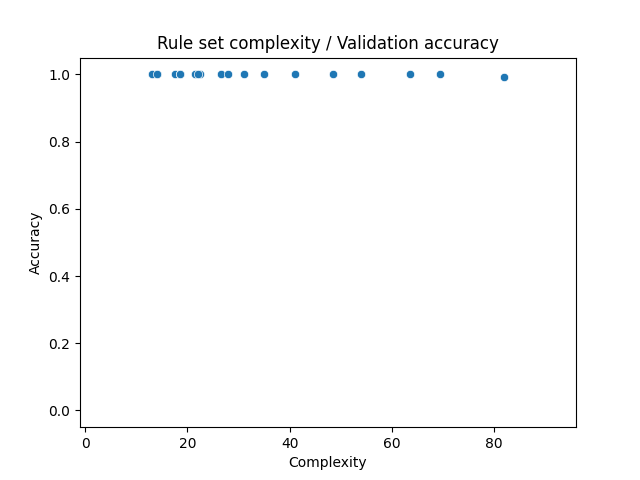
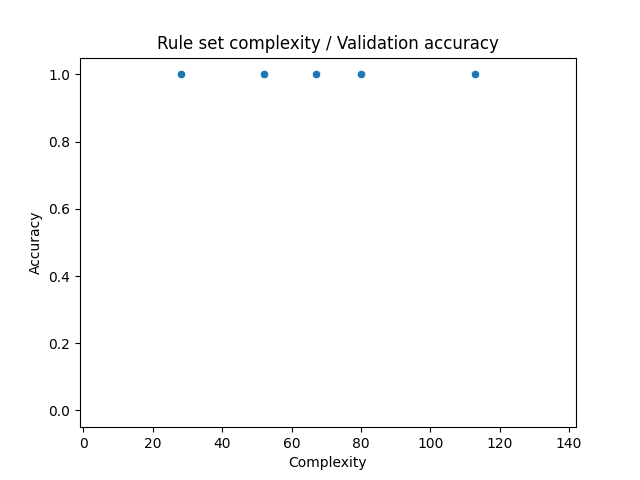
improve early stopping criterium

diff --git a/rule_extraction_classifier.py b/rule_extraction_classifier.py
@@ -1,4 +1,5 @@
 import copy
+import math
 import os
 import timeit
 from timeit import default_timer as timer
@@ -55,9 +56,6 @@ class RuleExtractionClassifier(BaseEstimator):
     def df_to_tensor(self, df) -> Tensor:
         return torch.from_numpy(df.values.astype(np.float32)).to(self.device)
 
-    def convert_to_rule_set(self, model: Sequential, dl: DataLoader):
-        pass
-
     def train_qnn(self, X: Tensor, y: Tensor) -> tuple[Sequential, Sequential]:
         _, n_features = X.shape
         spec: NNSpec = [
@@ -69,14 +67,11 @@ class RuleExtractionClassifier(BaseEstimator):
         spec.insert(0, (n_features, self.layer_width - 1, Activation.TANH))
 
         model = ModelFactory.get_model_by_spec(spec, steepness=self.steepness)
-        if torch.any(model[0].weight.isnan()):
-            print(spec)
         assert not torch.any(model[0].weight.isnan())
 
         dataset = TensorDataset(X, y)
         # model_path = f"temp/testing_model.pth"
         dl = DataLoader(dataset, batch_size=self.batch_size, shuffle=True)
-        assert not torch.any(model[0].weight.isnan())
         metrics = self.train_mlp(
             dl, model, 1, self.lr, self.epochs, self.l1, self.wd, self.delay
         )
@@ -91,14 +86,6 @@ class RuleExtractionClassifier(BaseEstimator):
         while any(isinstance(l, nn.Linear) for l in q_model):
             assert torch.all(torch.isclose(model(X), nn_out))
             q_model = quantize_first_lin_layer(q_model, X)
-            # qnn_out = q_model(X)
-            # nn_pred = np.array(np.round(nn_out.detach().numpy()), dtype=bool)
-            # qnn_pred = np.array(np.round(qnn_out.detach().numpy()), dtype=bool)
-            # y_arr = np.array(y.detach().numpy(), dtype=bool)
-            # nn_acc = np.mean(nn_pred == y_arr)
-            # qnn_acc = np.mean(qnn_pred == y_arr)
-            # fidelity = np.mean(nn_pred == qnn_pred)
-            # print(f"{nn_acc = } | {qnn_acc = } | {fidelity = }")
         return q_model, model
 
     def fit(self, X: DataFrame, y: Series):
@@ -161,7 +148,7 @@ class RuleExtractionClassifier(BaseEstimator):
             weight_decay=wd,
         )
         assert not torch.any(model[0].weight.isnan())
-        tracker = Tracker(epochs=epochs, delay=delay)
+        tracker = Tracker(epochs=epochs, epoch_delay=math.ceil(delay / len(dl)))
         assert not torch.any(model[0].weight.isnan())
         if self.verbose:
             assert not torch.any(model[0].weight.isnan())

diff --git a/my_logging/loggers.py b/my_logging/loggers.py
@@ -71,7 +71,9 @@ class LogMetrics(Logger):
             "valid_acc": f"Valid: {(self.t.valid_acc[-1] * 100):.2f}%",
         }
 
-        bar = "\r" + utilities.progress_bar(self.t.epoch, self.t.epochs, width=30) + " |"
+        bar = (
+            "\r" + utilities.progress_bar(self.t.epoch, self.t.epochs, width=30) + " |"
+        )
         for metric in self.metrics:
             bar += f"{m_format[metric]}\t"
         end = "\n" if self.t.stop_condition() else "\r"
@@ -137,7 +139,7 @@ class LogModel(Logger):
 class Tracker:
     """Tracks useful information on the current epoch."""
 
-    def __init__(self, epochs: int = 0, delay=100, *loggers: Logger):
+    def __init__(self, epochs: int = 0, epoch_delay=100, *loggers: Logger):
         """
         Parameters
         ----------
@@ -145,7 +147,7 @@ class Tracker:
             List of loggers used for logging training information.
         """
         self.epochs = epochs
-        self.delay = delay
+        self.delay = epoch_delay
         self.loggers = []
         for logger in loggers:
             self.add_logger(logger)
@@ -175,6 +177,7 @@ class Tracker:
             logger.training_start()
 
     def epoch_start(self):
+        self.batches = 0
         for logger in self.loggers:
             logger.epoch_start()
 
@@ -183,6 +186,7 @@ class Tracker:
             logger.batch_start()
 
     def batch_end(self):
+        self.batches += 1
         for logger in self.loggers:
             logger.batch_end()
 
@@ -223,9 +227,9 @@ class Tracker:
         valid_stop_delay = self.delay
         eps = 3e-4
         if (
-            len(self.mean_train_loss) >= valid_stop_delay
-            and self.mean_valid_loss[-valid_stop_delay]
-            <= mean(self.mean_valid_loss[-valid_stop_delay:-1]) + eps
+            len(self.mean_train_loss) > valid_stop_delay
+            and self.mean_valid_loss[-valid_stop_delay - 1]
+            <= mean(self.mean_valid_loss[-valid_stop_delay:]) + eps
         ):
             self.stop_training = True
 

diff --git a/train_model.py b/train_model.py
@@ -37,12 +37,8 @@ def train(
         y_hat = model(X)
         optim.zero_grad()
         assert not torch.any(model[0].weight.isnan())
-        try:
-            assert not torch.any(model[0].weight.isnan())
-            loss = loss_fn(y_hat, y.float())
-            assert not torch.any(model[0].weight.isnan())
-        except:
-            temp = 0
+        loss = loss_fn(y_hat, y.float())
+        assert not torch.any(model[0].weight.isnan())
         if lambda1 != 0:
             assert not torch.any(model[0].weight.isnan())
             # don't regularize bias
@@ -54,13 +50,7 @@ def train(
             assert not torch.any(model[0].weight.isnan())
         losses.append(loss.item())
         assert not torch.any(model[0].weight.isnan())
-        try:
-            assert not torch.any(model[0].weight.isnan())
-            loss.backward()
-            assert not torch.any(model[0].weight.isnan())
-        except:
-            print("hi")
-            temp = 0
+        loss.backward()
         assert not torch.any(model[0].weight.isnan())
         optim.step()
         assert not torch.any(model[0].weight.isnan())

diff --git a/rule_set.py b/rule_set.py
@@ -270,7 +270,7 @@ class RuleSetNeuron(Node):
                 return found
 
             # if already positive, return True
-            if threshold >= 0.0:
+            if threshold >= 0:
                 ans = DpNode("rename_me", 0.0, float("inf"))
                 dp.insert(k, ans)
                 return ans
@@ -281,6 +281,7 @@ class RuleSetNeuron(Node):
                 return ans
 
             weight = self.n_ins[k][1]
+            assert weight > 0
 
             # set to False
             n1 = to_bool_rec(k + 1, threshold, dp)
@@ -289,7 +290,7 @@ class RuleSetNeuron(Node):
                 max(n1.min_thr, n2.min_thr - weight),
                 min(n1.max_thr, n2.max_thr - weight),
             )
-            assert new_min < new_max
+            assert new_min < new_max, f"{new_min} is not <= {new_max}."
             ans = DpNode("rename_me", new_min, new_max)
             dp.insert(k, ans)
             return ans

diff --git a/learn_parity.py b/learn_parity.py
@@ -138,7 +138,7 @@ def find_best_params(
     n_iter: int,
     seed=0,
 ):
-    n_folds = 2
+    n_folds = 1
     X_train, X_test, y_train, y_test = train_test_split(
         X, y, test_size=0.2, random_state=seed
     )
@@ -216,7 +216,7 @@ def training_runs(key):
         verbose=True,
     )
 
-    n_iter = 15
+    n_iter = 5
     print(f"Starting Hyperparameter search...")
     sampler, accs, complexities, fidelities, scores = find_best_params(
         X, y, re_clf, param_grid, n_iter, seed

diff --git a/main.py b/main.py
@@ -7,7 +7,7 @@ from torch.utils.data import DataLoader
 
 from config import Configuration, Grid, read_grid
 from datasets import get_dataset
-from models.factory import ModelFactory
+from models.model_collection import ModelFactory
 from my_logging.checkpoints import Checkpoints
 from my_logging.loggers import Plotter, Tracker
 from train_model import training_loop

diff --git a/my_logging/checkpoints.py b/my_logging/checkpoints.py
@@ -108,7 +108,7 @@ class Configs(Logger):
             )
 
 
-class BestModels(Models):
+class BestModels(Logger):
     """
     Keeps track of/saves the best models w.r.t. to a metric.
     """
